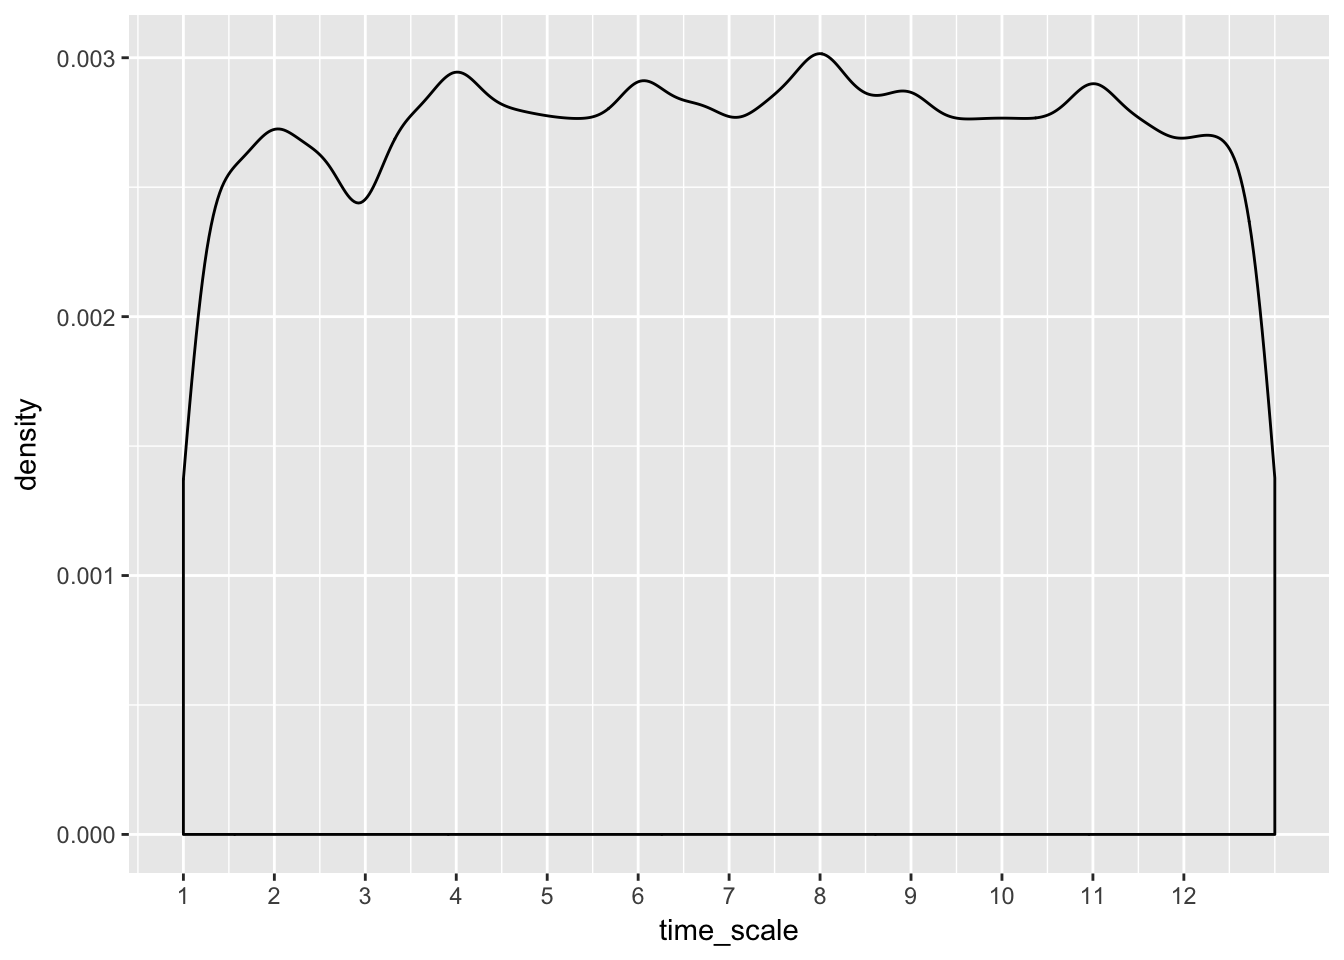
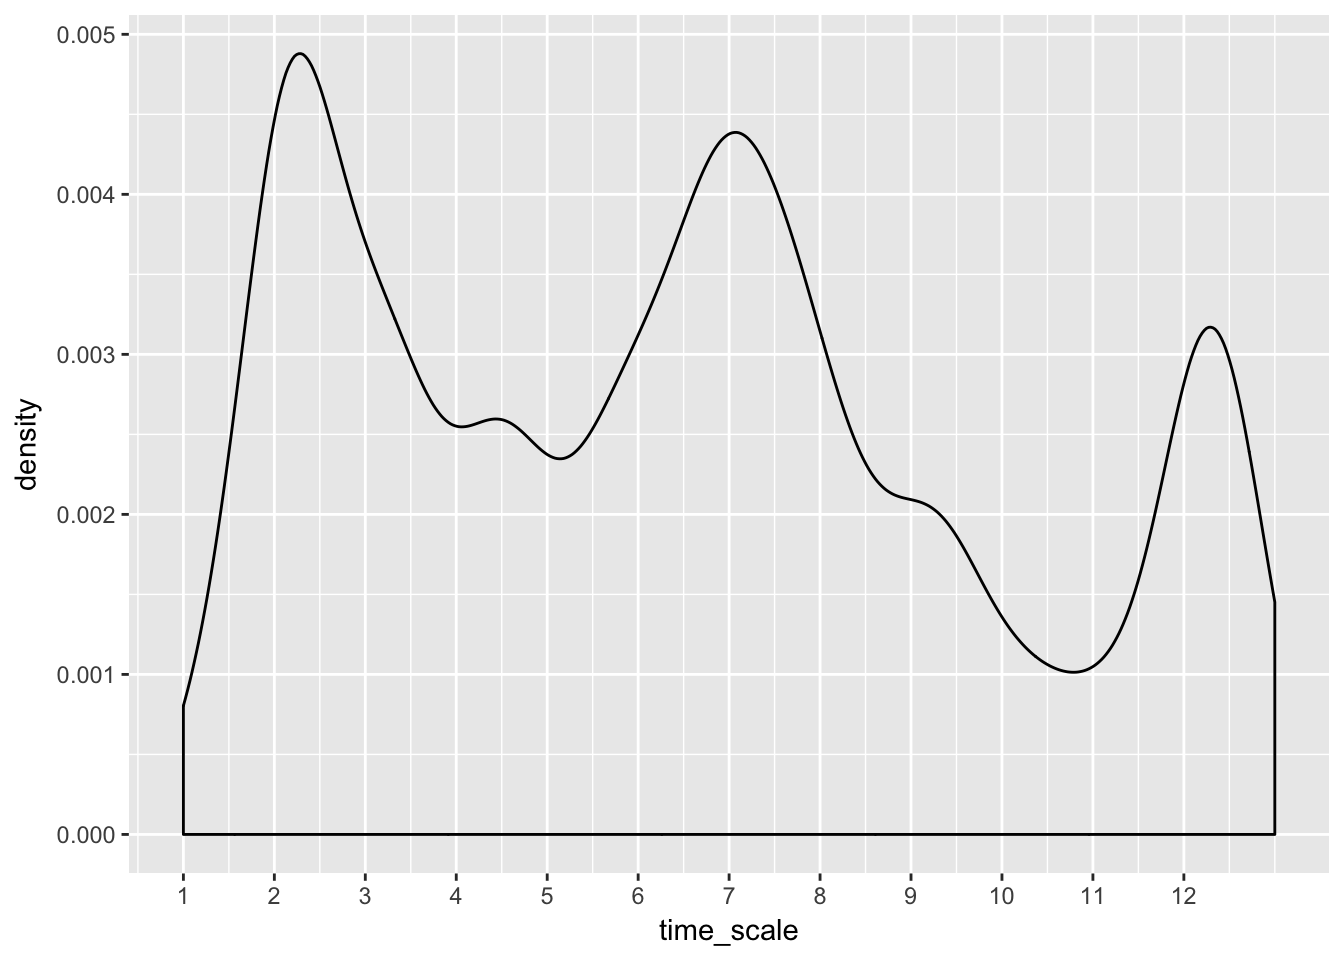
revised answer for seasonal pattern in cancelled flights

diff --git a/r4ds_exercises.html b/r4ds_exercises.html
@@ -1335,7 +1335,9 @@ flights %&gt;%<span class="st"> </span><span class="kw">rowwise</span>() %&gt;%
 <h3>5.6 Summarise</h3>
 <p>Useful objects from section 5.6 for exercises:</p>
 <div class="sourceCode"><pre class="sourceCode r"><code class="sourceCode r">not_cancelled &lt;-<span class="st"> </span>flights %&gt;%<span class="st"> </span>
-<span class="st">    </span><span class="kw">filter</span>(!<span class="kw">is.na</span>(dep_delay), !<span class="kw">is.na</span>(arr_delay))</code></pre></div>
+<span class="st">    </span><span class="kw">filter</span>(!<span class="kw">is.na</span>(dep_delay), !<span class="kw">is.na</span>(arr_delay))
+
+cancelled &lt;-<span class="st"> </span><span class="kw">filter</span>(flights, <span class="kw">is.na</span>(air_time))</code></pre></div>
 <ol style="list-style-type: decimal">
 <li>Brainstorm at least 5 different ways to assess the typical delay characteristics of a group of flights. Consider the following scenarios:</li>
 </ol>
@@ -1455,7 +1457,7 @@ not_cancelled %&gt;%<span class="st"> </span><span class="kw">group_by</span>(ta
 <li>Look at the number of cancelled flights per day. Is there a pattern? Is the proportion of cancelled flights related to the average delay?</li>
 </ol>
 <div class="sourceCode"><pre class="sourceCode r"><code class="sourceCode r"><span class="co"># scale the vars (year, month, day) to numeric</span>
-flights %&gt;%
+cancelled %&gt;%
 <span class="st">    </span><span class="kw">transmute</span>(<span class="dt">time_scale =</span> (month<span class="dv">-1</span>)*<span class="dv">30</span> +<span class="st"> </span>day) %&gt;%<span class="st"> </span><span class="co"># rough but good enough</span>
 <span class="st">    </span><span class="kw">ggplot</span>(<span class="kw">aes</span>(time_scale)) +
 <span class="st">    </span><span class="kw">geom_density</span>() +
@@ -1463,7 +1465,7 @@ flights %&gt;%
                        <span class="dt">labels =</span> <span class="kw">seq</span>(<span class="dv">1</span>:<span class="dv">12</span>)) <span class="co"># crude month markers, but good enough</span></code></pre></div>
 <p><img src="r4ds_exercises_files/figure-html/unnamed-chunk-53-1.png" width="672" /></p>
 <div class="sourceCode"><pre class="sourceCode r"><code class="sourceCode r"><span class="co"># better built-in fxns exist...?scale_x_datetime</span></code></pre></div>
-<p>Looks like local maxima are found near the first of the month for February, April, June, August and November. Not sure why but seems to be cyclic and coorelated with the begining of the month.</p>
+<p>Looks like local maxima are found near major holidays: Valentine’s Day, July 4th and Christmas. I would have guess Thanksgiving would be a big cancel event, maybe if we looked at more data.</p>
 <div class="sourceCode"><pre class="sourceCode r"><code class="sourceCode r">flights %&gt;%<span class="st"> </span><span class="kw">group_by</span>(month, day) %&gt;%
 <span class="st">    </span><span class="kw">summarise</span>(<span class="dt">prop_canceled =</span> <span class="kw">sum</span>(<span class="kw">is.na</span>(air_time)) /<span class="st"> </span><span class="kw">n</span>(),
               <span class="dt">avg_dep_delay =</span> <span class="kw">mean</span>(dep_delay, <span class="dt">na.rm =</span> T)) %&gt;%
